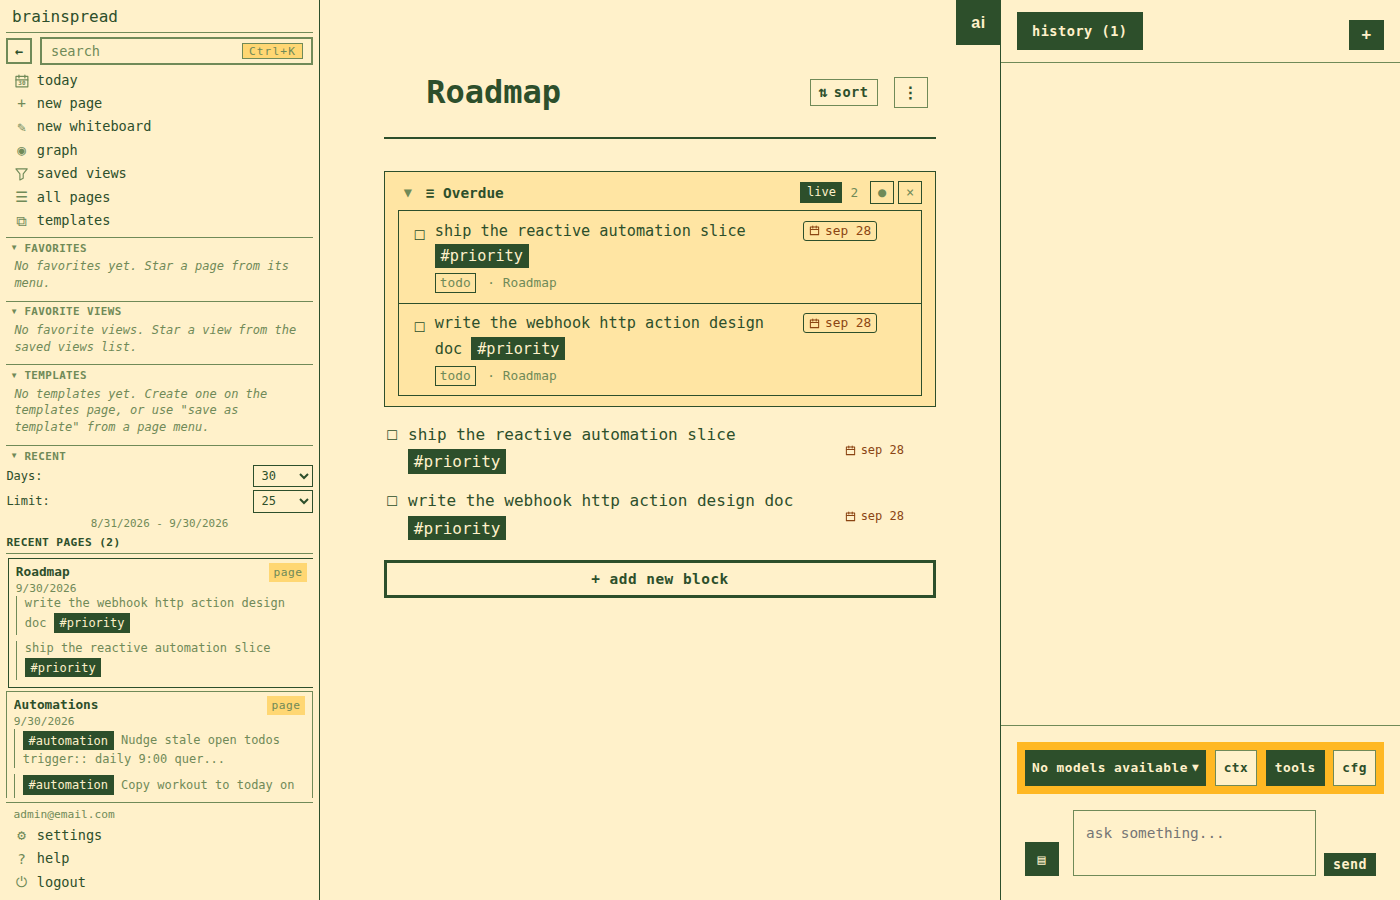
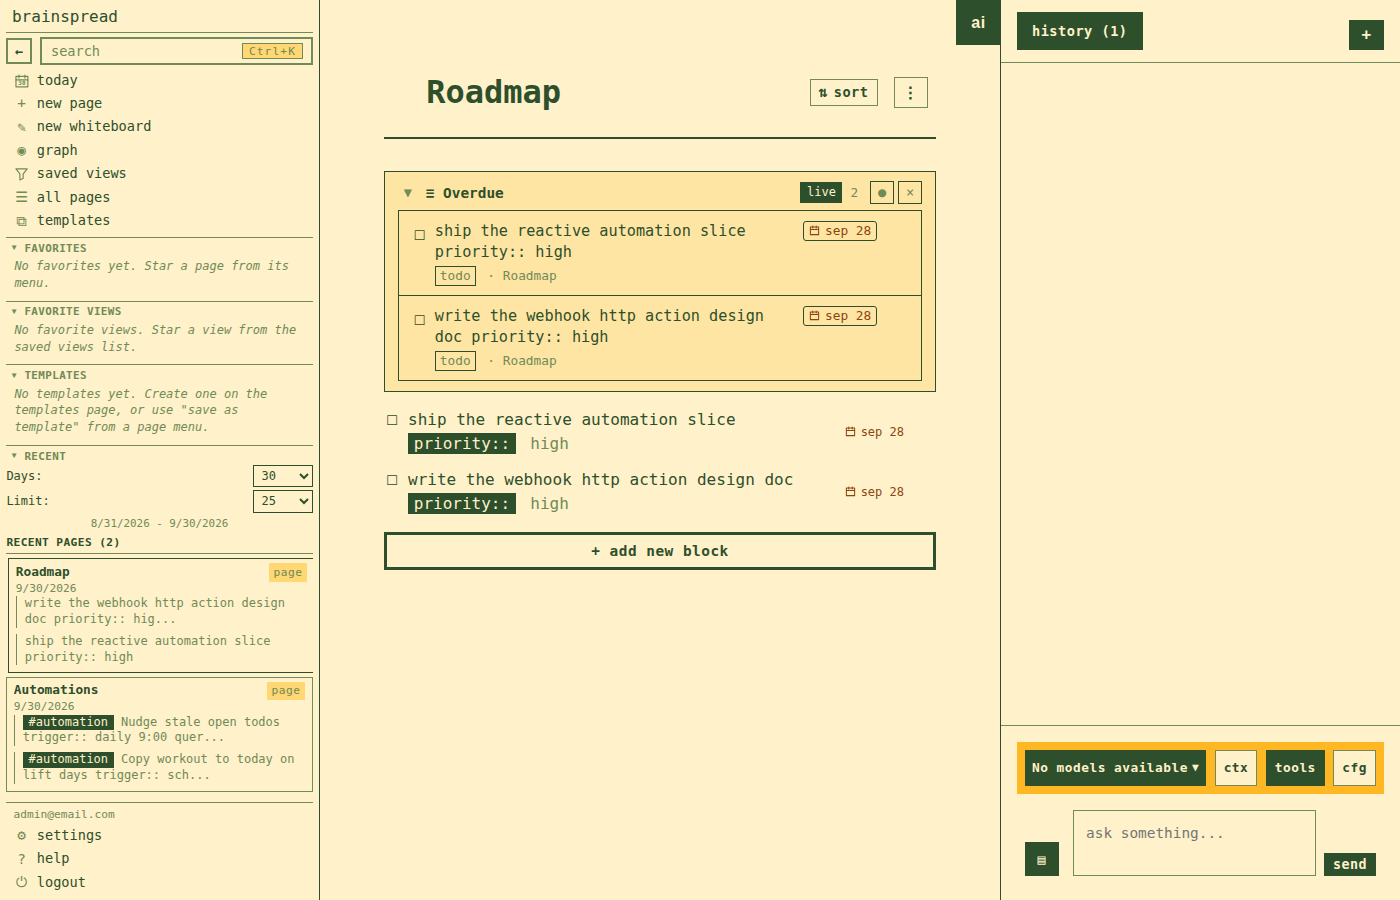
Address review feedback: shrink chips instead of growing lines, showcase properties, drop chat screenshot
- Swap the line-height increase for a smaller vertical padding on
  .inline-tag/.inline-property-value. Growing line-height also widened
  the gap around ordinary text on any line that mixed prose with a
  chip; shrinking the chip's own box instead leaves normal text
  spacing untouched and only opens up room between stacked chips.
- Replace the automation query example's `tag:priority` with
  `prop:priority=high` (and the matching `priority:: high` property on
  the seeded Roadmap todos, replacing the #priority tag) — better
  showcases the property query predicate, which the feature is more
  distinctively about than a plain hashtag.
- Drop the in-app-chat screenshot; that section doesn't need the same
  visual emphasis as automations/reminders/variables/MCP.

Re-captured screenshot4/5 against these changes; screenshot6 removed.

Claude-Session: https://claude.ai/code/session_018yMA39rVbEJzFYZvH8mQCZ

Changed region(s): [[0.2764, 0.2489, 0.6757, 0.6844], [0.0, 0.6533, 0.215, 0.9022]]

diff --git a/packages/django-app/app/knowledge/static/knowledge/css/app.css b/packages/django-app/app/knowledge/static/knowledge/css/app.css
@@ -1545,17 +1545,17 @@ kbd {
 .inline-tag {
   background-color: var(--tag-bg);
   color: var(--tag-text);
-  padding: 0.1rem 0.3rem;
+  /* Vertical padding kept small (rather than growing line-height) so
+     the chip's own box stays shorter than the line's leading — on
+     multiline content where a chip sits at the start of every line (a
+     multi-property automation definition: trigger::/query::/action::),
+     that leaves a visible gap between stacked chips instead of their
+     backgrounds touching, without changing line spacing for ordinary
+     text. */
+  padding: 0.02rem 0.3rem;
   font-weight: normal;
   border: 1px solid var(--tag-bg);
   text-decoration: none;
-  /* Vertical padding/border on an inline element doesn't grow the line
-     box — on multiline content where a chip sits at the start of every
-     line (a multi-property automation definition: trigger::/query::/
-     action::), adjacent chips' backgrounds visually touch with no gap.
-     A taller line-height on the chip itself grows just its own line's
-     box, adding breathing room without touching normal prose lines. */
-  line-height: 1.9;
 }
 
 /* More specific selector for inline tags in block content */
@@ -1600,9 +1600,8 @@ kbd {
 .inline-property-value {
   background-color: var(--hover-bg-light);
   color: var(--text-secondary);
-  padding: 0.1rem 0.3rem;
-  /* See .inline-tag's line-height comment — same fix, same reason. */
-  line-height: 1.9;
+  /* See .inline-tag's padding comment — same fix, same reason. */
+  padding: 0.02rem 0.3rem;
 }
 
 /* Tag page styling */

diff --git a/README.md b/README.md
@@ -74,8 +74,8 @@ matching block:
 ```
 - #automation Nudge stale open todos
 trigger:: daily 9:00
-query:: type:todo and tag:priority and due < today
-action:: notify "{{count}} p1 todos are overdue"
+query:: type:todo and prop:priority=high and due < today
+action:: notify "{{count}} high-priority todos are overdue"
 enabled:: true
 ```
 
@@ -227,8 +227,6 @@ There's also a chat panel next to your notes, with persistent history,
 bring-your-own-key support for Anthropic/OpenAI/Google, web search, and a
 bigger toolset with an approval gate on writes. Good for quick stuff like
 "what did I get done this week?" without leaving the app.
-
-![The chat panel mid-conversation, running a query tool against the graph](docs/images/screenshot6.png)
 
 ### Odds and ends
 
